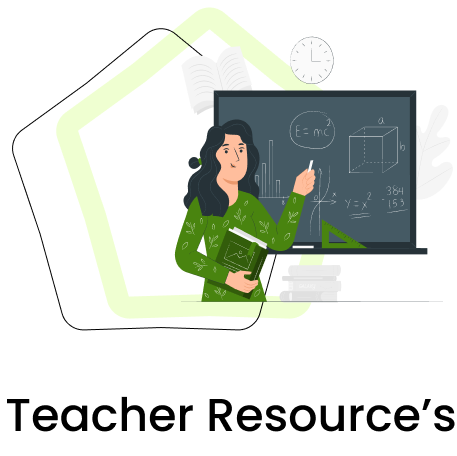
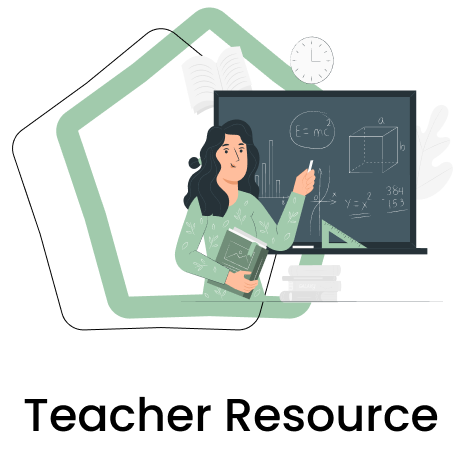
Updated back button and Landing Page image

diff --git a/src/components/Hero/HeroSection.jsx b/src/components/Hero/HeroSection.jsx
@@ -134,9 +134,9 @@ const HeroSection = () => {
               <div className="formula-frame" style={{ position: "absolute", top: 0, left: 0, right: 0, bottom: 0, zIndex: 1000, pointerEvents: "none" }}>
               <MathFormulaComponent className="formula-1" text="BODMAS" divClassName="formula-bodmas formula-font-1" />
               <MathFormulaComponent className="formula-2" text="a²+b² = c² " divClassName="formula-algebra-exp formula-font-2" />
-              <MathFormulaComponent className="formula-3" text="Area of Cone" divClassName="formula-area-cone formula-font-3" />
+              <MathFormulaComponent className="formula-3" text="Area of Cone" divClassName="formula-area-cone formula-font-2" />
               <MathFormulaComponent className="formula-4" text="Geometry" divClassName="formula-geometry formula-font-2" />
-              <MathFormulaComponent className="formula-5" text="Area of Cone" divClassName="formula-area-cone-2 formula-font-2" />
+              <MathFormulaComponent className="formula-5" text="Proability" divClassName="formula-area-cone-2 formula-font-1" />
               <MathFormulaComponent className="formula-6" text="1/2*(B+B)*H" divClassName="formula-trapezoid formula-font-2" />
               <MathFormulaComponent className="formula-7" text="sin(90°−x) = cos x" divClassName="formula-trig formula-font-2" />
               <MathFormulaComponent className="formula-8" text="HCF, LCM" divClassName="formula-hcf-lcm formula-font-1" />

diff --git a/src/components/pdfViewer.js b/src/components/pdfViewer.js
@@ -660,18 +660,15 @@ export const PdfViewer = () => {
       {/* Main Content Wrapper - Fixed positioning to start after header */}
       <div className="pdf-viewer-wrapper">
         {/* Back Navigation */}
-        <div className="back-navigation">
-          <button className="back-btn" onClick={handleBackClick}>
-            <ArrowLeft size={18} />
-            Back to Topics
-          </button>
-        </div>
+        
 
         {/* Main Content Container - Fixed height to fit viewport */}
         <div className="pdf-viewer-container">
           {/* Header Section - Compact */}
           <div className="pdf-viewer-header">
+            
             <div className="topic-info">
+              
               <h1 className="topic-title">{topicTitle}</h1>
               <p className="topic-subtitle">Interactive Learning Content</p>
             </div>
@@ -680,6 +677,12 @@ export const PdfViewer = () => {
           {/* Tab Navigation - Compact */}
           <div className="tab-navigation">
             <div className="tab-container">
+              <div className="back-navigation">
+          <button className="back-btn" onClick={handleBackClick}>
+            <ArrowLeft size={18} />
+            Back to Topics
+          </button>
+        </div>
               <button
                 className={`tab-button ${activeTab === "content" ? "active" : ""}`}
                 onClick={() => handleTabChange("content")}
